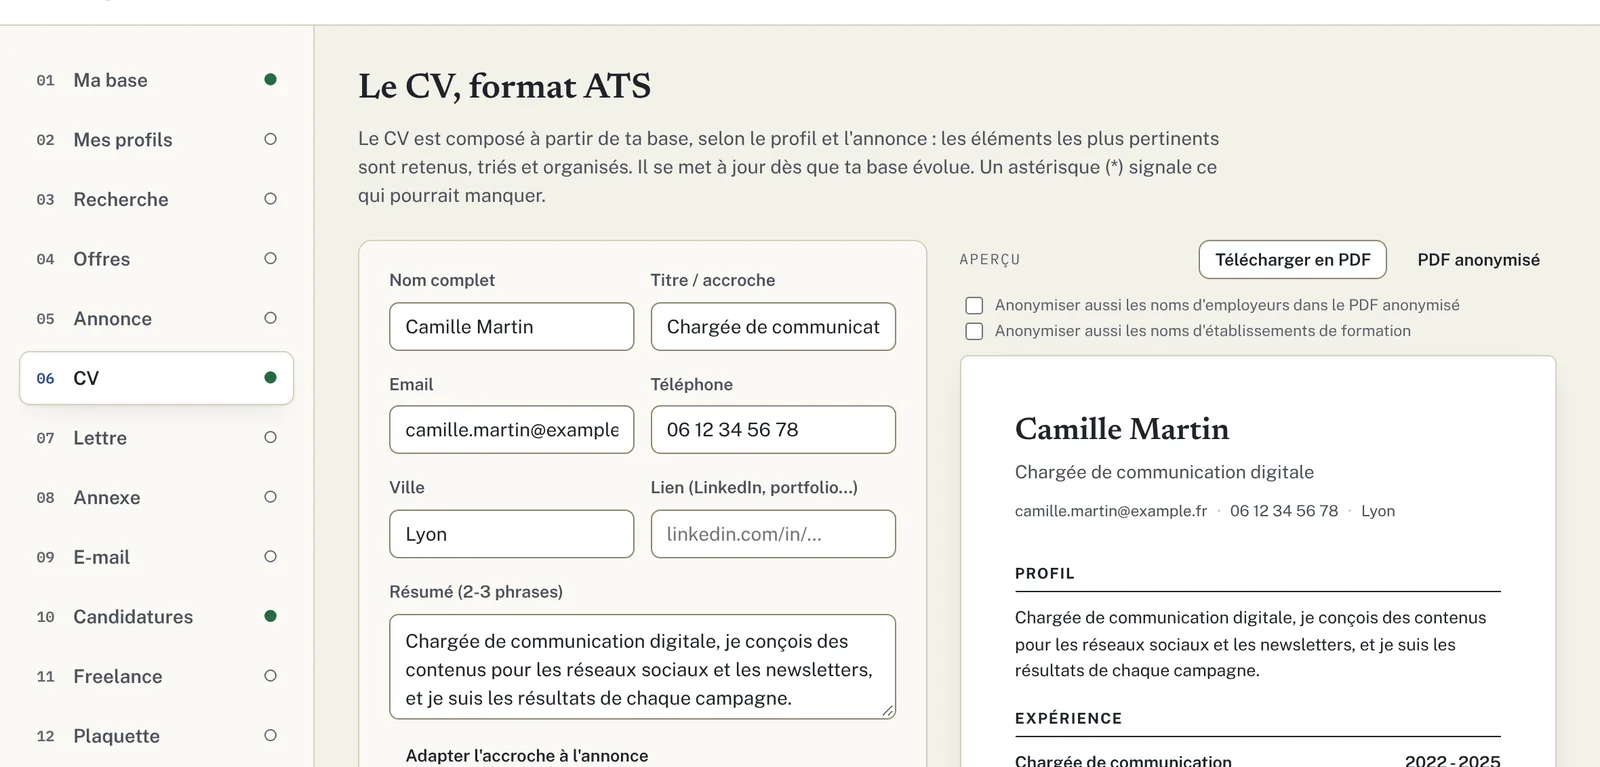
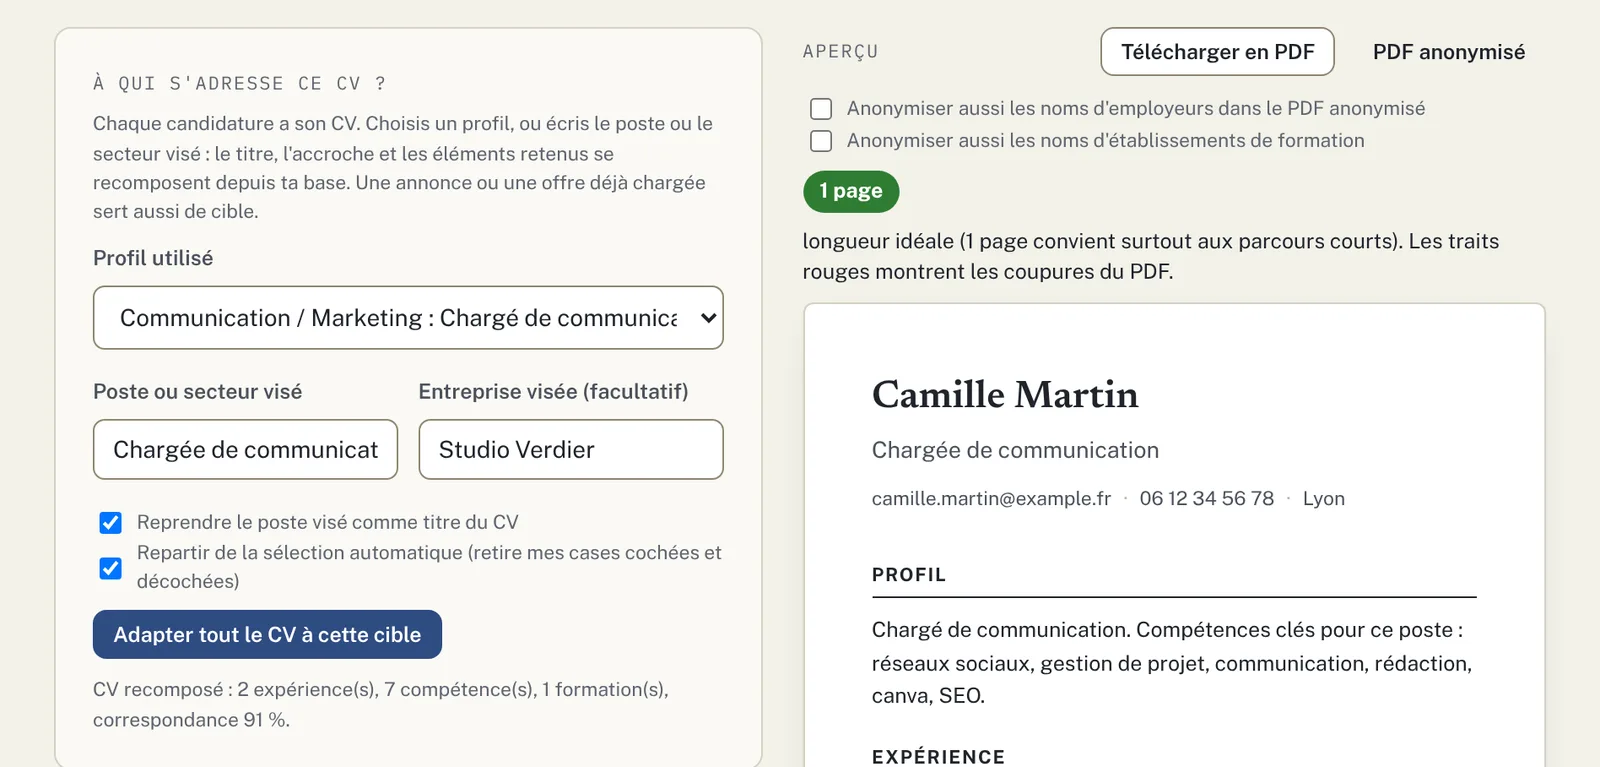
Catégories de compétences modifiables, captures de la landing refaites, export PDF vérifié
Claude-Session: https://claude.ai/code/session_01Gk4AjjnqNx8YZBPtexXevu

diff --git a/app/index.html b/app/index.html
@@ -663,6 +663,11 @@
               </div>
               <div class="chips" id="cv-skill-chips"></div>
               <div class="chips" id="cv-skill-suggest" style="margin-top:10px;"></div>
+              <details style="margin-top:12px;" id="skill-cats-box"><summary class="hint" style="cursor:pointer;">Catégories de compétences (renommer, ajouter, supprimer)</summary>
+                <p class="hint" style="margin:8px 0;">Dans le CV, les compétences sont regroupées par catégorie. Chaque compétence est classée automatiquement ; choisis une autre catégorie avec le menu de sa pastille. Tes catégories s'ajoutent à celles proposées.</p>
+                <div id="skill-cats-editor"></div>
+                <div style="display:flex;gap:8px;margin-top:8px;"><input type="text" id="skill-cat-new" placeholder="ex. Langages, Réseaux sociaux, Pédagogie" maxlength="40"><button class="btn btn-sm" id="btn-skill-cat-add" type="button">Ajouter une catégorie</button></div>
+              </details>
             </div>
           </div>
 
@@ -2305,7 +2310,7 @@ function atsAnalysis(){
   var p = state.profil;
   if(!(p.email || "").trim() || !(p.tel || "").trim()) notes.push({ action: "manual", text: "Renseigne ton email et ton téléphone : un CV sans coordonnées est écarté par beaucoup de filtres." });
   if(!(state.cv.resume || "").trim()) notes.push({ action: "auto-resume", text: "Ajoute une accroche de 2 phrases qui reprend les mots-clés de l'annonce." });
-  var poste = (state.annonce.poste || "").trim();
+  var poste = cleanPosteTitle(state.annonce.poste || "");
   if(poste && countTerm(norm([p.titre, state.cv.resume].join(" ")), norm(poste)) === 0 && !hasTerm(norm([p.titre, state.cv.resume].join(" ")), poste)) notes.push({ action: "manual", text: "L'intitulé visé (« " + poste + " ») n'apparaît ni dans ton titre ni dans l'accroche. Si c'est bien ton métier visé, reprends-le tel quel." });
   if(annonceLooksEnglish() && state.cv.lang !== "en") notes.push({ action: "manual", text: "L'annonce est en anglais : passe le CV en English (boutons « Langue du CV »)." });
   missing.sort(function(a, b){ return ((b.kind === "skill" ? 100 : 0) + (b.count || 0)) - ((a.kind === "skill" ? 100 : 0) + (a.count || 0)); });   // priorité : compétences, puis fréquence dans l'annonce
@@ -3034,9 +3039,15 @@ function renderSkillChips(){
   state.library.competences.forEach(function(c){
     var chip = document.createElement("span");
     chip.className = "chip";
-    chip.innerHTML = esc(c.label) + ' <button data-id="' + c.id + '" title="Retirer" aria-label="Retirer">' + icon("close") + '</button>';
+    var cur = c.cat && skillCats().some(function(x){ return x.key === c.cat; }) ? c.cat : "";
+    chip.innerHTML = esc(c.label) + ' <select class="skill-cat" data-skid="' + c.id + '" aria-label="Catégorie de ' + esc(c.label) + '" title="Catégorie dans le CV" style="font-size:11px;max-width:110px;"><option value="">Auto : ' + esc(skillCat({ label: c.label }).label) + '</option>' + skillCats().map(function(x){ return '<option value="' + esc(x.key) + '"' + (cur === x.key ? " selected" : "") + '>' + esc(x.label) + '</option>'; }).join("") + '</select> <button data-id="' + c.id + '" title="Retirer" aria-label="Retirer">' + icon("close") + '</button>';
     wrap.appendChild(chip);
   });
+  wrap.querySelectorAll("select.skill-cat").forEach(function(sel){ sel.addEventListener("change", function(){
+    var c = state.library.competences.find(function(x){ return x.id === sel.getAttribute("data-skid"); }); if(!c) return;
+    if(sel.value) c.cat = sel.value; else delete c.cat;
+    renderCVPreview(); persist();
+  }); });
   wrap.querySelectorAll("button").forEach(function(btn){
     btn.addEventListener("click", function(){
       var id = btn.getAttribute("data-id");
@@ -5810,12 +5821,45 @@ var SKILL_CATS = [
   { key:"relationnel",label:"Savoir-être",             re:/(management|leadership|communication|n[ée]gociation|relation|animation|p[ée]dagogie|autonomie|rigueur|organisation|esprit|travail d['’]équipe|polyvalence|adaptabilit[ée]|cr[ée]ativit[ée]|écoute|sens)/i },
   { key:"tech",       label:"Savoir-faire techniques", re:/(javascript|typescript|python|php|java\b|react|node|html|css|sql|api|git|docker|llm|rag|mcp|agents?|\bia\b|intelligence artificielle|n8n|automatisation|prompt|cloud|linux|d[ée]veloppement|architecture|base de donn[ée]es|seo|sea|analytics|data|blockchain|web3|supabase|neon|vercel|cloudflare|github|montage|r[ée]alisation|photographie|audiovisuel)/i }
 ];
-function skillCat(c){
-  if(c.cat){ var f = SKILL_CATS.find(function(x){ return x.key === c.cat; }); if(f) return f; }
-  var l = c.label || "";
-  for(var i = 0; i < SKILL_CATS.length; i++){ if(SKILL_CATS[i].re.test(l)) return SKILL_CATS[i]; }
-  return { key:"autres", label:"Autres compétences" };
+// Catégories : celles proposées (renommables) + celles de la personne (`profil.skillCats`).
+function skillCats(){
+  var P = state.profil; if(!Array.isArray(P.skillCats)) P.skillCats = []; if(!P.skillCatLabels) P.skillCatLabels = {};
+  return SKILL_CATS.map(function(c){ return { key: c.key, label: P.skillCatLabels[c.key] || c.label, re: c.re, builtin: true }; })
+    .concat(P.skillCats.map(function(c){ return { key: c.key, label: c.label }; }))
+    .concat([{ key: "autres", label: P.skillCatLabels.autres || "Autres compétences", builtin: true, other: true }]);
 }
+function skillCat(c){
+  var cats = skillCats();
+  if(c.cat){ var f = cats.find(function(x){ return x.key === c.cat; }); if(f) return f; }
+  var l = c.label || "";
+  for(var i = 0; i < cats.length; i++){ if(cats[i].re && cats[i].re.test(l)) return cats[i]; }
+  return cats[cats.length - 1];
+}
+function renderSkillCatsEditor(){
+  var box = document.getElementById("skill-cats-editor"); if(!box) return;
+  var P = state.profil;
+  box.innerHTML = skillCats().map(function(c){
+    return '<div style="display:flex;gap:8px;align-items:center;margin-bottom:6px;"><input type="text" maxlength="40" data-skcat="' + esc(c.key) + '" value="' + esc(c.label) + '" aria-label="Nom de la catégorie">' +
+      (c.builtin ? '<span class="hint">proposée</span>' : '<button class="btn btn-ghost btn-sm" type="button" data-skcat-del="' + esc(c.key) + '">Supprimer</button>') + '</div>';
+  }).join("");
+  box.querySelectorAll("[data-skcat]").forEach(function(el){ el.addEventListener("input", function(){
+    var k = el.getAttribute("data-skcat"), v = el.value.trim(), cu = P.skillCats.find(function(x){ return x.key === k; });
+    if(cu){ cu.label = v || cu.label; } else { P.skillCatLabels[k] = v; if(!v) delete P.skillCatLabels[k]; }
+    renderCVPreview(); persist();
+  }); el.addEventListener("change", function(){ renderSkillChips(); });
+  });
+  box.querySelectorAll("[data-skcat-del]").forEach(function(b){ b.addEventListener("click", function(){
+    var k = b.getAttribute("data-skcat-del"); P.skillCats = P.skillCats.filter(function(x){ return x.key !== k; });
+    state.library.competences.forEach(function(c){ if(c.cat === k) delete c.cat; });   // retour au classement automatique
+    renderSkillCatsEditor(); renderSkillChips(); renderCVPreview(); persist();
+  }); });
+}
+document.getElementById("btn-skill-cat-add").addEventListener("click", function(){
+  var inp = document.getElementById("skill-cat-new"), v = inp.value.trim(); if(!v) return;
+  if(skillCats().some(function(c){ return norm(c.label) === norm(v); })){ inp.value = ""; return; }
+  state.profil.skillCats.push({ key: "u" + uid(), label: v }); inp.value = "";
+  renderSkillCatsEditor(); renderSkillChips(); persist();
+});
 
 function bulletWords(s){ return norm(s).replace(/[^a-z0-9 ]/g, " ").split(/\s+/).filter(function(w){ return w.length > 2; }); }
 function similarText(a, b){
@@ -5940,7 +5984,7 @@ function baseTree(){
     { key:"form", label:"Formations", items: lib.formations.filter(function(f){ return f.diplome || f.etablissement; }).map(function(f){ return { label: f.diplome + (f.etablissement ? " · " + f.etablissement : ""), text: [f.diplome, f.etablissement, f.details].join(" "), dates: f.dates }; }) },
     { key:"cert", label:"Certifications", items: lib.certifications.filter(function(c){ return c.label; }).map(function(c){ return { label: c.label + (c.annee ? " (" + c.annee + ")" : ""), text: c.label + " " + (c.organisme || "") }; }) }
   ];
-  SKILL_CATS.concat([{ key:"autres", label:"Autres compétences" }]).forEach(function(cat){
+  skillCats().forEach(function(cat){
     var items = lib.competences.filter(function(c){ return skillCat(c).key === cat.key; }).map(function(c){ return { label: c.label, text: c.label }; });
     if(items.length) branches.push({ key:"skill-" + cat.key, label: cat.label, items: items });
   });
@@ -7211,7 +7255,7 @@ function renderPersonBar(){
 // Recharge tout ce qui dépend de la personne (profil, base, suivi) puis de la candidature active.
 function syncPersonUI(){
   ["nom", "email", "tel", "ville", "lien", "langues"].forEach(function(f){ document.getElementById("cv-" + f).value = state.profil[f] || ""; });
-  renderPhotoThumb();
+  renderPhotoThumb(); renderSkillCatsEditor();
   renderArchiveList(); renderReferencePanel();
   renderCertList(); renderSources(); renderBaseMap();
   renderCandidaturesList();
@@ -8041,6 +8085,7 @@ renderAnalyseCard();
 renderProfilSelect();
 renderProfils();
 renderCertList();
+renderSkillCatsEditor();
 renderSources();
 renderBaseMap();
 refreshIaState();

diff --git a/index.html b/index.html
@@ -39,7 +39,7 @@
       <p class="microcopy">Gratuit pour le moment. Sans compte, sans carte bancaire. Tes données restent sur ton ordinateur.</p>
     </div>
     <figure class="shot" style="margin:0;">
-      <img src="assets/landing/atelier-cv.webp" width="1600" height="767" alt="L'atelier affiche le CV de Camille Martin, composé à partir de sa base&nbsp;: à gauche les champs modifiables, à droite l'aperçu du CV." fetchpriority="high">
+      <img src="assets/landing/atelier-cv.webp" width="1600" height="767" alt="L'atelier affiche le CV de Camille Martin, composé à partir de sa base&nbsp;: à gauche la carte « À qui s'adresse ce CV&nbsp;? » (profil, poste et entreprise visés), à droite l'aperçu du CV avec sa longueur." fetchpriority="high">
       <figcaption>Exemple avec des données fictives&nbsp;: le CV se compose à partir de ta base et se modifie directement.</figcaption>
     </figure>
   </div>
@@ -123,7 +123,7 @@
           <div class="cta-row"><a class="btn btn-primary" href="app/">Essayer gratuitement</a></div>
           <p class="microcopy">Gratuit pour le moment, sans compte.</p>
         </div>
-        <figure class="shot" style="margin:0;"><img src="assets/landing/atelier-score.webp" width="900" height="445" loading="lazy" alt="Le score de correspondance d'un CV avec une annonce&nbsp;: 91 %, avec la liste des mots-clés absents et des actions à mener."><figcaption>Le score de correspondance avec l'annonce (données fictives).</figcaption></figure>
+        <figure class="shot" style="margin:0;"><img src="assets/landing/atelier-score.webp" width="900" height="799" loading="lazy" alt="Le score de correspondance d'un CV avec une annonce&nbsp;: 91 %, un écart faible, et le mot-clé absent de la base (Figma) avec le choix de l'ajouter si on le maîtrise."><figcaption>Le score de correspondance avec l'annonce (données fictives).</figcaption></figure>
       </div>
 
       <div class="pane" id="transition" role="tabpanel" aria-labelledby="tab-transition" hidden>

diff --git a/docs/ARCHITECTURE.md b/docs/ARCHITECTURE.md
@@ -71,7 +71,7 @@ Le rail latéral (`#rail`, boutons `.rail-item[data-tab]`) ouvre un panneau `sec
 
 | N° | Onglet (`data-tab`) | Rôle | Éléments principaux |
 |---|---|---|---|
-| 01 | **Ma base** (`base`) | Constituer et fusionner la base de la personne | Import de CV (nom du CV + texte, case « remplacer »), listes modifiables expériences / formations / rubriques / compétences / certifications, liste des CV importés, **carte de la base** (SVG radial + détail par branche, mise en évidence par profil) |
+| 01 | **Ma base** (`base`) | Constituer et fusionner la base de la personne | Import de CV (nom du CV + texte, case « remplacer »), listes modifiables expériences / formations / rubriques / compétences / certifications, **catégories de compétences modifiables** (menu de catégorie sur chaque pastille, renommer les catégories proposées, ajouter et supprimer les siennes), liste des CV importés, **carte de la base** (SVG radial + détail par branche, mise en évidence par profil) |
 | 02 | **Mes profils** (`profils`) | Créer des profils de recherche et leur CV type | **Création d'un profil sur mesure** (nom de référence, titre sur le CV, mots-clés ; aucune condition), profils proposés d'après la base (niveau : déjà exercé / base suffisante / accessible sans expérience / pas assez d'éléments), « Viser un autre métier », éditeur par profil (titre visé, lieu, rayon, contrats, mots-clés, accroche, ton, à compléter, import de texte, **CV type** avec aperçu, ajustements, PDF) |
 | 03 | **Recherche** (`recherche`) | Entreprises à démarcher (candidatures spontanées) | Profil, lieu (recherche de commune), rayon, taille, résultats avec le menu **« CV à envoyer »** (profil de la recherche par défaut, modifiable par entreprise) et « Candidature spontanée », lien page recrutement, fiche, écarter |
 | 04 | **Offres** (`offres`) | Offres d'alternance (La bonne alternance) ou tous contrats (JobsPipe, test) via le sélecteur `#off-source` | Profil, lieu (recherche de commune), rayon, mots-clés (gardent les résultats qui en contiennent au moins un, filtre local), liste d'**offres** (menu **« CV à envoyer »** : le profil le plus proche de l'offre est proposé, modifiable ; correspondance avec la base, « Candidater avec cette offre » qui reprend le poste de l'offre comme titre du CV, « Voir sur La bonne alternance », écarter) et d'**entreprises qui recrutent souvent** (« Candidature spontanée »), mention de la source. `OFFRES_API_ACTIVE` masque le formulaire si la source est coupée. Une annonce issue de l'API n'est jamais envoyée à l'IA (`offreVientDeLAPI`). L'API France Travail reste refusée (voir `docs/FRANCE-TRAVAIL.md`) |
@@ -124,6 +124,7 @@ Personne = { id, nom, data: {
                                                              band, portrait, presentation{role,texte,mode,photo}, presChiffres[], avis[],
                                                              refs{clients,garanties}, faq[], offreIds[], angle, tu } } ],
                                        plaquetteId } ] } ],
+                   skillCats:[{key,label}], skillCatLabels:{clé:nom} (catégories de compétences : celles de la personne et les noms modifiés des catégories proposées),
                    regles:{ poids{pertinence,contexte,chiffres,recence,appris}, limites{exp,bulletsTop,bulletsAutres,skills,forms,refs}, strict,
                             principes[{id,titre,texte,type ('libre'|'mots'|'debuts'|'longueur'|'chiffre'),param,actif}],
                             corrections[{id,ts,cle ('exp:'|'form:'|'skill:'|'cert:'|'sec:'|'ref:' + id),label,action ('pin'|'hide'),profilId,termes[]}] },
@@ -133,7 +134,7 @@ Personne = { id, nom, data: {
                    ecartes{siren:true}, offresEcartees{id:true} },
   library:       { experiences[{id,poste,entreprise,dates,details,src[]}],   // details = une réalisation par ligne
                    formations[{id,diplome,etablissement,dates,details,src[]}],
-                   competences[{id,label,cat?,src[]}],
+                   competences[{id,label,cat? (clé d'une catégorie ; absente = classement automatique),src[]}],
                    certifications[{id,label,organisme,annee,src[]}],
                    sections[{id,titre,texte,src[]}],                         // texte structuré : "## sous-titre", "- puce"
                    sources[{id,label,date}],                                 // CV importés
@@ -272,7 +273,7 @@ Les `id` ci-dessous sont lus par le script. **Ne pas les renommer sans adapter l
 
 **panel-base**
 
-`#panel-base`, `#cv-import-label`, `#cv-import-text`, `#btn-import-cv`, `#cv-import-replace`, `#cv-import-status`, `#btn-add-exp`, `#exp-list`, `#btn-add-formation`, `#formation-list`, `#btn-add-section`, `#section-list`, `#cv-skill-input`, `#btn-add-skill`, `#cv-skill-chips`, `#cv-skill-suggest`, `#btn-add-cert`, `#cert-list`, `#sources-list`, `#base-map-card`, `#map-profil`, `#base-map`, `#base-map-detail`
+`#panel-base`, `#skill-cats-box`, `#skill-cats-editor`, `[data-skcat]`, `[data-skcat-del]`, `#skill-cat-new`, `#btn-skill-cat-add`, `select.skill-cat`, `#cv-import-label`, `#cv-import-text`, `#btn-import-cv`, `#cv-import-replace`, `#cv-import-status`, `#btn-add-exp`, `#exp-list`, `#btn-add-formation`, `#formation-list`, `#btn-add-section`, `#section-list`, `#cv-skill-input`, `#btn-add-skill`, `#cv-skill-chips`, `#cv-skill-suggest`, `#btn-add-cert`, `#cert-list`, `#sources-list`, `#base-map-card`, `#map-profil`, `#base-map`, `#base-map-detail`
 
 **panel-profils**
 
@@ -374,7 +375,7 @@ Numéros de ligne omis (ils changent) : chercher le nom dans `app/index.html`. R
 
 **MODULE CV (bibliothèque + auto-composition)**
 
-`refreshCVStatus`, `atsTier`, `variantsOf`, `hasTerm`, `ownMaterialText`, `annonceLooksEnglish`, `atsAnalysis`, `computeATS`, `renderATS`, `atsOptimize`, `atsPlanMarkdown`, `renderExpList`, `renderFormList`, `addSkillRaw`, `addSkill`, `yearOfToken`, `isPlausibleYear`, `detectDateInLine`, `stripImportBullet`, `splitTitleLine`, `isLikelySkillLine`, `isFormationBlock`, `cleanTitleLine`, `parseImportedCvLegacy`, `importSectionKey`, `stripInlineMarkdown`, `normalizeImportLines`, `isHeadingLine`, `splitListItems`, `toStructuredText`, `parseEntries`, `parseImportedCv`, `doImportCv`, `renderSkillChips`, `renderSkillSuggestions`, `addAtout`, `renderAtoutsChips`, `renderPhotoThumb`, `structuredToHtml`, `htmlToStructured`, `renderSectionsList`, `initPreviewEditing`, `renderCVPreview`, `cvHtml`, `anonymizedCvElement`, `initCVModule`
+`refreshCVStatus`, `skillCats`, `skillCat`, `renderSkillCatsEditor`, `atsTier`, `variantsOf`, `hasTerm`, `ownMaterialText`, `annonceLooksEnglish`, `atsAnalysis`, `computeATS`, `renderATS`, `atsOptimize`, `atsPlanMarkdown`, `renderExpList`, `renderFormList`, `addSkillRaw`, `addSkill`, `yearOfToken`, `isPlausibleYear`, `detectDateInLine`, `stripImportBullet`, `splitTitleLine`, `isLikelySkillLine`, `isFormationBlock`, `cleanTitleLine`, `parseImportedCvLegacy`, `importSectionKey`, `stripInlineMarkdown`, `normalizeImportLines`, `isHeadingLine`, `splitListItems`, `toStructuredText`, `parseEntries`, `parseImportedCv`, `doImportCv`, `renderSkillChips`, `renderSkillSuggestions`, `addAtout`, `renderAtoutsChips`, `renderPhotoThumb`, `structuredToHtml`, `htmlToStructured`, `renderSectionsList`, `initPreviewEditing`, `renderCVPreview`, `cvHtml`, `anonymizedCvElement`, `initCVModule`
 
 **MODULE LETTRE**
 

diff --git a/docs/ROADMAP.md b/docs/ROADMAP.md
@@ -14,6 +14,8 @@ Document vivant : ce qui est fait, ce qui attend un tiers, ce qui reste à faire
 - Assistant IA : clé d'API personnelle facultative (appel direct du navigateur, hors sauvegarde).
 - E-mail d'envoi (cinq types, signature freelance, bonnes pratiques), fiche de préparation à l'entretien, banque d'images de la plaquette.
 - Onglet Règles : mise en avant selon la cible (poids et limites modifiables), principes de communication personnalisables vérifiés dans le CV, la lettre et la plaquette et transmis à l'IA, apprentissage des corrections, références freelance classées selon la cible et le persona.
+- Export PDF vérifié sur un vrai fichier (1, 2 et 3 pages : le nombre de pages du PDF est celui annoncé par l'aperçu) ; captures de la landing refaites (CV et score).
+- Catégories de compétences modifiables (renommer, ajouter, supprimer, choisir par compétence).
 - Miniature de partage 1200 × 630 avec l'accroche de la landing ; guide pas à pas pour les débutants (dont le questionnaire « je n'ai pas de CV »).
 - Mobile (navigation par groupes), thème par bouton icône, accueil (premiers pas, alerte des relances).
 - Pages légales, polices et bibliothèques auto-hébergées, en-têtes de sécurité, documentation (`ARCHITECTURE.md`, `METHODE-LETTRE-RAPOS.md`).
@@ -41,14 +43,11 @@ Décisions du 26 novembre 2026. Vocabulaire : **candidature** pour une demande d
 
 ## À faire ensuite (backlog)
 
-1. Catégories de compétences modifiables à la main.
-2. Vérifier l'export PDF réel du CV avec les repères de pages (nombre de pages du PDF = nombre annoncé par l'aperçu).
-3. Refaire la capture de la landing (`assets/landing/atelier-cv.webp` et celles qui montrent encore des astérisques ou l'ancien libellé « Titre / accroche »), avec des données fictives.
-4. Affiner les références freelance selon les retours de test (classement par cible et persona, corrections apprises).
-5. Entretien : simulation orale chronométrée avec corrigé par l'IA, suivi des entretiens passés.
-6. Plaquette : images libres de droits proposées, modèles supplémentaires, version deux pages, bandeaux supplémentaires (zone d'intervention, appel découverte, QR vers un portfolio, certifications).
-7. Documents PDF balisés (accessibilité), audit RGAA.
-8. Découper `app/index.html` (CSS, modules JavaScript) avant la refonte du design.
+1. Affiner les références freelance selon les retours de test (classement par cible et persona, corrections apprises).
+2. Entretien : simulation orale chronométrée avec corrigé par l'IA, suivi des entretiens passés.
+3. Plaquette : images libres de droits proposées, modèles supplémentaires, version deux pages, bandeaux supplémentaires (zone d'intervention, appel découverte, QR vers un portfolio, certifications).
+4. Documents PDF balisés (accessibilité), audit RGAA.
+5. Découper `app/index.html` (CSS, modules JavaScript) avant la refonte du design.
 
 ## Modèle économique : gratuit pour le moment, orientation décidée pour la suite
 
